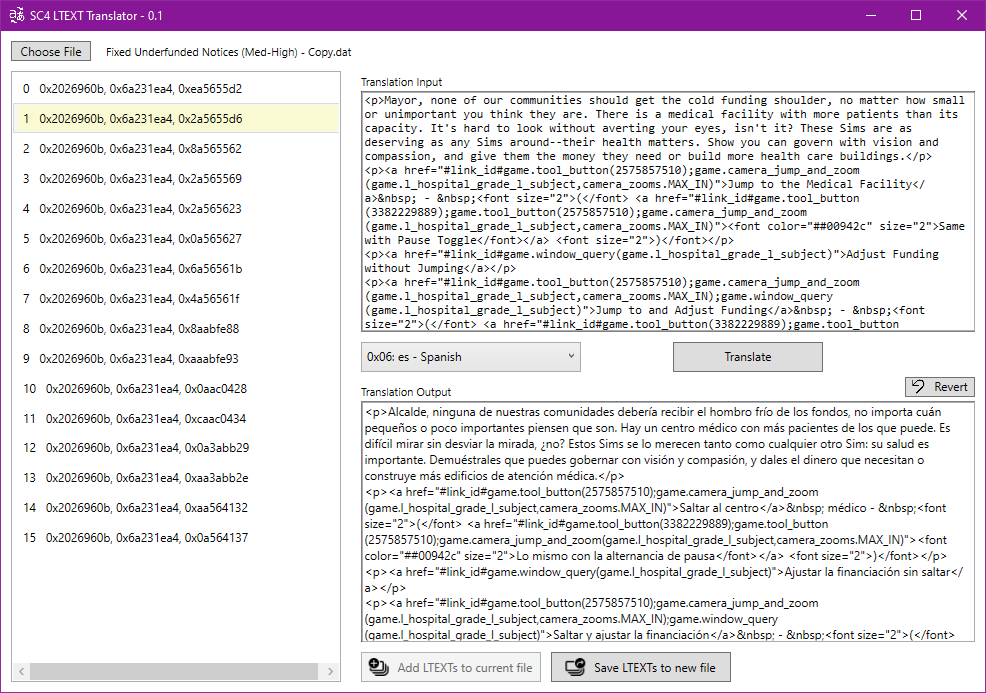
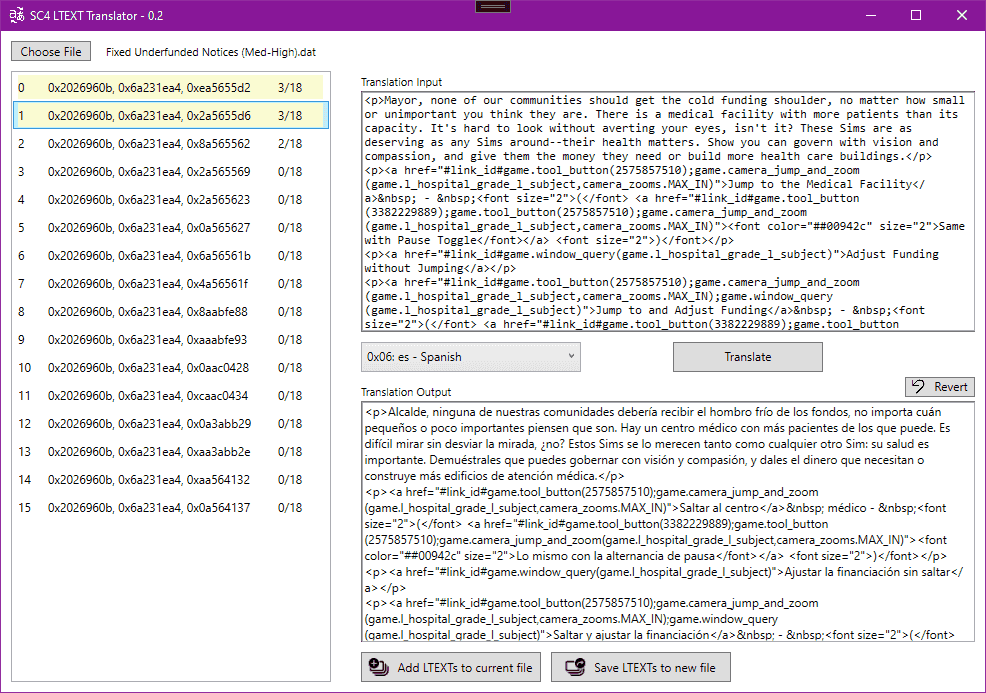
save translations to file

diff --git a/MainWindow.xaml b/MainWindow.xaml
@@ -181,7 +181,8 @@
 				<Button x:Name="AddLtextsToCurrentFile"
 						Width="180"
 						Margin="0,0,0,10"
-						Click="AddLtextsToCurrentFile_Click">
+						Click="AddLtextsToCurrentFile_Click"
+						IsEnabled="False">
 					<StackPanel Orientation="Horizontal">
 						<Image Source="img/fluent--stack-add-24-regular.png"
 							   Margin="4" />

diff --git a/MainWindow.xaml.cs b/MainWindow.xaml.cs
@@ -67,14 +67,14 @@ namespace SC4LTEXTT {
             public Dictionary<byte, string> ModifiedTranslations { get; set; } //Stores the user-modified translation output
             public SolidColorBrush BackColor { get; set; }
 
-            private bool _isTranslated; //Whether this item has been translated to the current language.
-            public bool IsTranslated {
-                get { return _isTranslated; }
+            private bool _hasTranslations; //Whether this item has been translated to the current language.
+            public bool HasTranslations {
+                get { return _hasTranslations; }
                 set {
-                    _isTranslated = value;
+                    _hasTranslations = value;
                     if (ModifiedTranslations.Count == 18) {
                         BackColor = Brushes.YellowGreen;
-                    } else if (_isTranslated) {
+                    } else if (_hasTranslations) {
                         BackColor = Brushes.LightGoldenrodYellow;
                     } else {
                         BackColor = Brushes.Transparent;
@@ -83,18 +83,18 @@ namespace SC4LTEXTT {
             }
 
 
-            public ListBoxItem(DBPFEntry entry, bool isTranslated) {
+            public ListBoxItem(DBPFEntry entry, bool hasTranslated) {
                 BaseEntry = (DBPFEntryLTEXT) entry;
                 OriginalTranslations = new Dictionary<byte, string>();
                 ModifiedTranslations = new Dictionary<byte, string>();
-                _isTranslated = isTranslated;
+                _hasTranslations = hasTranslated;
                 BackColor = Brushes.Transparent;
             }
-            public ListBoxItem(DBPFEntryLTEXT entry, bool isTranslated) {
+            public ListBoxItem(DBPFEntryLTEXT entry, bool hasTranslated) {
                 BaseEntry = entry;
                 OriginalTranslations = new Dictionary<byte, string>();
                 ModifiedTranslations = new Dictionary<byte, string>();
-                _isTranslated = isTranslated;
+                _hasTranslations = hasTranslated;
                 BackColor = Brushes.Transparent;
             }
         }
@@ -159,12 +159,6 @@ namespace SC4LTEXTT {
                 ListofLTEXTs.Items.Refresh();
 
                 _selectedListBoxItem = (ListBoxItem) ListofLTEXTs.SelectedItem;
-                //_originalTranslations.Clear();
-                //_modifiedTranslations.Clear();
-                //for (int idx = 0; idx < _listOfLTEXTs.Count; idx++) {
-                //    _originalTranslations.Add(idx, new Dictionary<byte, string>());
-                //    _modifiedTranslations.Add(idx, new Dictionary<byte, string>());
-                //}
             } else {
                 return;
             }
@@ -213,18 +207,7 @@ namespace SC4LTEXTT {
 
                 _selectedListBoxItem.OriginalTranslations.Add(_langOffset, translatedText);
                 _selectedListBoxItem.ModifiedTranslations.Add(_langOffset, translatedText);
-                _selectedListBoxItem.IsTranslated = true;
-                //TGI baseTGI = _listBoxItems[_selectedIndex].BaseEntry.TGI;
-
-                //Look for the desired translation in the selected item; if not found add it, and if found update it
-                //bool found = _listBoxItems[_selectedIndex].ModifiedTranslations.TryGetValue(_selectedLangOffset, out DBPFEntryLTEXT? translatedEntry);
-
-                //if (!found) {
-                //    _listBoxItems[_selectedIndex].ModifiedTranslations.Add(_selectedLangOffset, new DBPFEntryLTEXT(new TGI((uint) baseTGI.TypeID, (uint) baseTGI.GroupID + _selectedLangOffset, (uint) baseTGI.InstanceID), _modifiedTranslations[_selectedIndex]));
-                //    _listBoxItems[_selectedIndex].Status = _listBoxItems[_selectedIndex].ModifiedTranslations.Count + "/18";
-                //} else if (translatedEntry is not null) {
-                //    translatedEntry.Text = _modifiedTranslations[_selectedIndex];
-                //}
+                _selectedListBoxItem.HasTranslations = true;
 
                 TranslationOutput.Text = translatedText;
                 ListofLTEXTs.Items.Refresh();
@@ -265,10 +248,6 @@ namespace SC4LTEXTT {
         private void TranslationOutput_LostFocus(object sender, RoutedEventArgs e) {
             _selectedListBoxItem.ModifiedTranslations[_langOffset] = TranslationOutput.Text;
 
-            //bool found = _listBoxItems[_selectedIndex].ModifiedTranslations.TryGetValue(_selectedLangOffset, out DBPFEntryLTEXT? translatedEntry);
-            //if (found && translatedEntry is not null) {
-            //    translatedEntry.Text = _modifiedTranslations[_selectedIndex];
-            //}
             ListofLTEXTs.Items.Refresh();
         }
 
@@ -280,7 +259,7 @@ namespace SC4LTEXTT {
 
             //Refresh the listbox to highlight all the items translated in the chosen language
             foreach (ListBoxItem item in _listBoxItems) {
-                item.IsTranslated = item.ModifiedTranslations.ContainsKey(_langOffset);
+                item.HasTranslations = item.ModifiedTranslations.ContainsKey(_langOffset);
             }
             ListofLTEXTs.Items.Refresh();
 
@@ -334,10 +313,16 @@ namespace SC4LTEXTT {
         private void SaveLTEXTs(DBPFFile file) {
             if (file is null) return;
             ListBoxItem item;
+            DBPFEntryLTEXT newEntry;
+            
             for (int idx = 0; idx < _listBoxItems.Count; idx++) {
                 item = _listBoxItems[idx];
-                if (item.IsTranslated) {
-                    //file.AddEntries(item.ModifiedTranslations.Values);
+                if (item.HasTranslations) {
+                    TGI baseTGI = item.BaseEntry.TGI;
+                    foreach (byte offset in item.ModifiedTranslations.Keys) {
+                        newEntry = new DBPFEntryLTEXT(new TGI((uint) baseTGI.TypeID, (uint) baseTGI.GroupID + offset, (uint) baseTGI.InstanceID), item.ModifiedTranslations[offset]);
+                        file.AddEntry(newEntry);
+                    }
                 }
             }
             if (file.CountEntries() > 0) {
